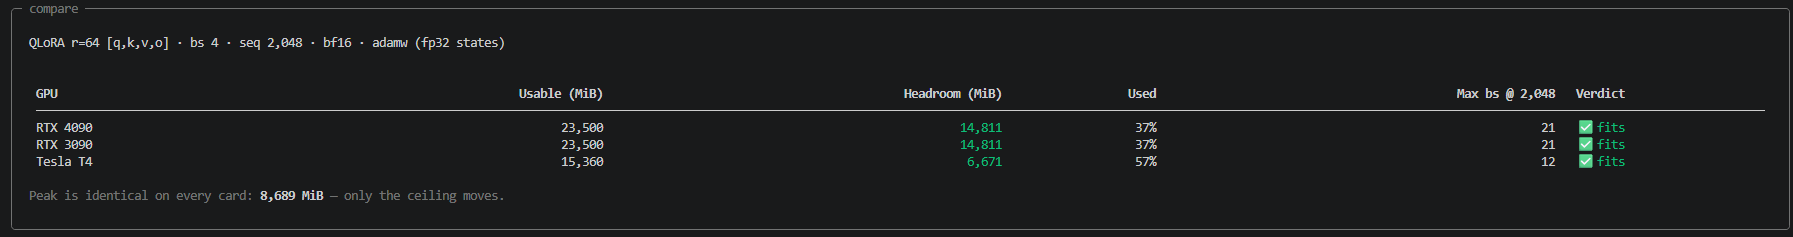
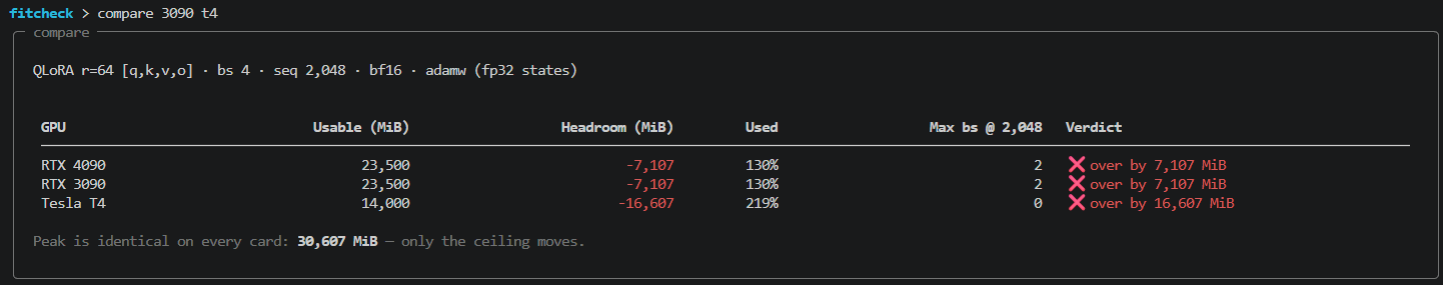
change to v0.3.0

diff --git a/README.md b/README.md
@@ -25,7 +25,9 @@ per-component breakdown, a fits/doesn't-fit verdict against a specific card, and
 micro-batch that still fits.
 
 `fitcheck infer` prices the other half of the job — serving a trained model, where the
-budget is resident weights plus the KV cache — from the same config and the same math.
+budget is resident weights plus the KV cache — from the same config and the same math. And
+`fitcheck advise` sweeps the knobs instead of pricing one setting: what each axis costs, how
+far each one goes before it stops fitting, and the configs sitting right at that edge.
 
 > **Accuracy status (v0.1.2, 2026-09-02): measured, and the measurements moved the formulas.**
 > Ten real training runs on a Tesla T4 — three models, three sequence lengths, both attention
@@ -87,7 +89,7 @@ one.
 ![fitcheck REPL compare output: RTX 4090, RTX 3090 and Tesla T4 side by side, all fitting, with max micro-batch 21, 21 and 12](docs/images/mode-b-compare.png)
 
 Also available: `optimize` (largest micro-batch that fits, plus a config actually worth
-running), `show`, `reset`, and `gpus`.
+running), `advise` / `sweep` (the whole map at once — see below), `show`, `reset`, and `gpus`.
 
 ---
 
@@ -128,6 +130,54 @@ request — 0.125 MiB and 256 MiB for Llama-3.1-8B at 2,048 tokens — and `--se
 `--concurrent` are interchangeable: 4 requests of 2,048 tokens cost exactly what 1 request of
 8,192 costs. Every request is assumed to hold its full context, so the number is a worst
 case; a paged engine like vLLM allocates less until the cache fills up.
+
+---
+
+## Config advisor — `fitcheck advise`
+
+A breakdown tells you what one config costs. It does not tell you which dial to turn. `advise`
+sweeps batch size, sequence length and LoRA rank together and answers the two questions that
+actually decide a run: **what does each axis cost**, and **how far can each one go before it
+stops fitting**.
+
+```bash
+fitcheck advise meta-llama/Llama-3.1-8B --gpu 4090 --qlora --flash-attn \
+  --lora-targets q,k,v,o --seq-lens 512,1024,2048,4096,8192
+```
+
+![fitcheck advise output: what is held fixed and what is swept, the frontier with a runnable command per row, the per-axis ceilings, and the price of each axis](docs/images/advise-cli.png)
+
+The screen is four blocks: what is **held fixed** versus what is **swept**, the **frontier**
+(the configs at the edge of what fits, one pasteable command per row), **the wall** (the exact
+ceiling on each axis), and **the price of each axis**.
+
+For Llama-3.1-8B QLoRA on a 4090, the price table settles the argument on its own:
+
+| Change from `batch 2 × seq 2048`, rank 64 | Cost | New total |
+|:---|---:|---:|
+| rank 64 → 32 | **−416 MiB** | 19,623.87 |
+| rank 64 → 128 | **+832 MiB** | 20,871.87 |
+| tokens/step ÷2 (batch 1) | **−5,284 MiB** | 14,756.27 |
+| tokens/step ×2 (batch 4 *or* seq 4096) | **+10,567 MiB** | 30,607.07 — does not fit |
+
+Doubling tokens/step costs about **12.7×** what doubling the rank costs. Rank is not the knob
+stopping you — and the ceiling proves it: at rank 64 the wall is 4,096 tokens/step, and
+dropping all the way to rank 8 does not buy a single extra token. Meanwhile at 4,096
+tokens/step the rank can go up to **330** before the card runs out.
+
+Two details that make the numbers trustworthy. Every ceiling is found by **bisection over the
+full estimator**, not read off the grid — this grid stops at rank 256 while the real wall is
+330, so a grid-only answer would be wrong. And `--seq-lens` is **required**, because there is
+no honest default: sweeping past a model's real context length in silence would be worse than
+asking. `--max-seq-len` is a guard that rejects a too-long swept length, not a generator.
+
+`advise` is also a REPL command (alias `sweep`), and it shares the sticky training flags with
+`memory` — `advise --qlora --flash-attn` sets them for both, so there is no second copy to
+drift. In a session `--seq-lens` stops being required once you have given it, because a
+session remembers.
+
+`advise` says **what each axis costs and where the wall is**; the REPL's `optimize` says
+**what to run**. They are deliberately different questions.
 
 ---
 
@@ -214,6 +264,7 @@ optimize                          # a batch size worth running, not just the cei
 compare 3090 t4 a100-40           # same config, several cards
 infer --quant nf4 --double-quant  # serving instead of training: weights + KV cache
 compare a100-40 t4 --infer        # the serving config across cards
+advise --seq-lens 1024,2048,4096  # sweep the knobs: axis prices, ceilings, frontier
 reset                             # flags back to defaults
 ```
 
@@ -239,6 +290,26 @@ fitcheck infer meta-llama/Llama-3.1-8B --quant nf4 --json
 Exit codes are the training command's: `0` fits, `1` doesn't fit, `2` couldn't run. `--gpu`,
 `--vram-mib` and `--no-color` behave the same too. `fitcheck infer --help` has the full flag
 list.
+
+### Advisor
+
+```bash
+# The full map: axis prices, per-axis ceilings, and the frontier
+fitcheck advise meta-llama/Llama-3.1-8B --gpu 4090 --qlora --flash-attn --seq-lens 512,1024,2048,4096,8192
+
+# Narrow the sweep to the axes you can actually change
+fitcheck advise meta-llama/Llama-3.1-8B --gpu 4090 --qlora --seq-lens 2048 --batch-sizes 1,2,4,8
+
+# Refuse to price a context length the model cannot serve
+fitcheck advise meta-llama/Llama-3.1-8B --gpu 4090 --qlora --seq-lens 8192,16384 --max-seq-len 8192
+
+# Machine-readable, for CI
+fitcheck advise meta-llama/Llama-3.1-8B --gpu 4090 --qlora --seq-lens 2048,4096 --json
+```
+
+`--seq-lens` is required in Mode A and optional in the session. Exit codes: `0` at least one
+swept config fits, `1` none of them does, `2` couldn't run — which includes a `--seq-lens`
+past `--max-seq-len`. `fitcheck advise --help` has the full flag list.
 
 ### Model support
 

diff --git a/docs/SPEC.md b/docs/SPEC.md
@@ -2,7 +2,7 @@
 
 > **PRD + Technical Design + Definition of Done — One Document**
 >
-> Version: 0.2.0 (MVP) · Author: Anas · Date: August 2026
+> Version: 0.3.0 · Author: Anas · Date: September 2026
 
 ---
 
@@ -69,7 +69,7 @@ This trial-and-error loop wastes 10–30 minutes per attempt and provides **zero
 | Feature | Phase | Notes |
 |:---|:---:|:---|
 | `fitcheck infer <model>` — inference mode | 1.5 | KV cache math, concurrent request estimation — **done, v0.2** (§3.1 Component 7, §3.5 Mode C) |
-| `fitcheck advise` — config advisor | 2 | Sweep of (batch_size, lora_r, seq_len) → per-axis prices, per-axis ceilings, and the frontier at the edge of what fits. Dominance is over **two** objectives (maximise tokens/step, maximise rank) with `total_mib ≤ usable` as the *constraint*, not a third objective: MiB is a monotone function of the other two, so minimising it filters nothing (measured 60 of 60 fitting points surviving on a 150-point Llama-3.1-8B grid) |
+| `fitcheck advise` — config advisor | 2 | Sweep of (batch_size, lora_r, seq_len) → per-axis prices, per-axis ceilings, and the frontier at the edge of what fits — **done, v0.3** (§3.5 Mode D for the CLI, §3.5 Mode B for the session command, `docs/ADVISOR.md` for the derivation). Dominance is over **two** objectives (maximise tokens/step, maximise rank) with `total_mib ≤ usable` as the *constraint*, not a third objective: MiB is a monotone function of the other two, so minimising it filters nothing (measured 60 of 60 fitting points surviving on a 150-point Llama-3.1-8B grid) |
 | Calibration mode | 3 | 1 real forward pass → correction factor |
 | HuggingFace Gradio Space | 3 | Web UI for non-CLI users |
 | Cost estimator (RunPod/Lambda pricing) | 3 | |
@@ -1323,6 +1323,37 @@ where all the remaining error lives — see the fragmentation note in Component 
 > 4090. Shipping unvalidated with a loud banner is the honest trade; shipping unvalidated *quietly*,
 > or launching to an audience that checks numbers before the matrix has rows, is not. TASKS 5.5 and
 > 8.1 hold that line.
+
+### v0.3 — the advisor gate
+
+8. **`fitcheck advise` answers the two questions a breakdown cannot** — what each axis costs, and
+   where the wall on each axis is. Done when all four are true:
+
+   a. **Both modes carry it.** Mode D (`fitcheck advise <model> --seq-lens ...`, §3.5) and the
+      session command `advise` / `sweep` (§3.5 Mode B) are built from the same
+      `cli.advise_command.params`, so a flag added to one appears in the other for free. The
+      session drops only the `--seq-lens` requirement, because a session remembers it.
+
+   b. **The wall is bisected, never read off the grid.** The grid gives the shape; each per-axis
+      ceiling comes from re-running the whole estimator (`_largest_fitting`), for the same reason
+      `max_batch_size` does — see the Appendix. A grid that stops at rank 256 hides a real
+      ceiling of 330.
+
+   c. **Every frontier row prints a command you can paste.** It carries the model id the user
+      typed, not `ModelConfig.name` (which is only the last path segment and does not resolve on
+      the Hub).
+
+   d. **The golden sweep reproduces to the digit.** Llama-3.1-8B, QLoRA r=64 [q,k,v,o], 4090,
+      ckpt + flash, seq lens 512–8192: grid 150, fitting 60, frontier `4,096 tok/step r=256 @
+      22,535.87 MiB`, rank ceiling **330** @ 23,497.87 MiB, axis prices −416 / +832 / −5,283.60 /
+      +10,567.20 MiB. The grid size, the bisected rank ceiling and the axis prices are asserted in
+      `tests/test_advisor.py` (`advisor.py` at 100% coverage); the rendered screen is verified by
+      hand in both modes, the way 4.5/4.6 verify `cli.py` and `display.py`.
+
+> **The accuracy gate did not move in v0.3.** `advise` re-runs the same estimator on a grid, so it
+> inherits the v0.2 numbers exactly — 3.4% on the tensors tier, 14.7% on the full total, all of the
+> gap in $C_{overhead}$, all twenty measurements still one Tesla T4. A sweep of an unvalidated
+> heuristic is still unvalidated; `advise` adds reach, not confidence.
 
 ---
 
